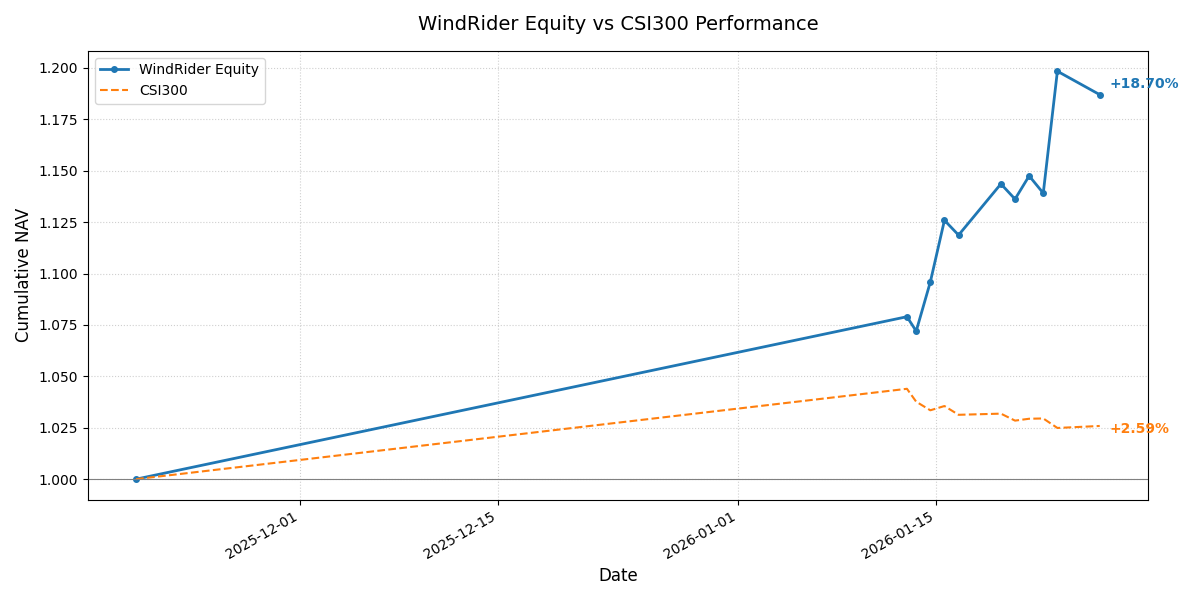
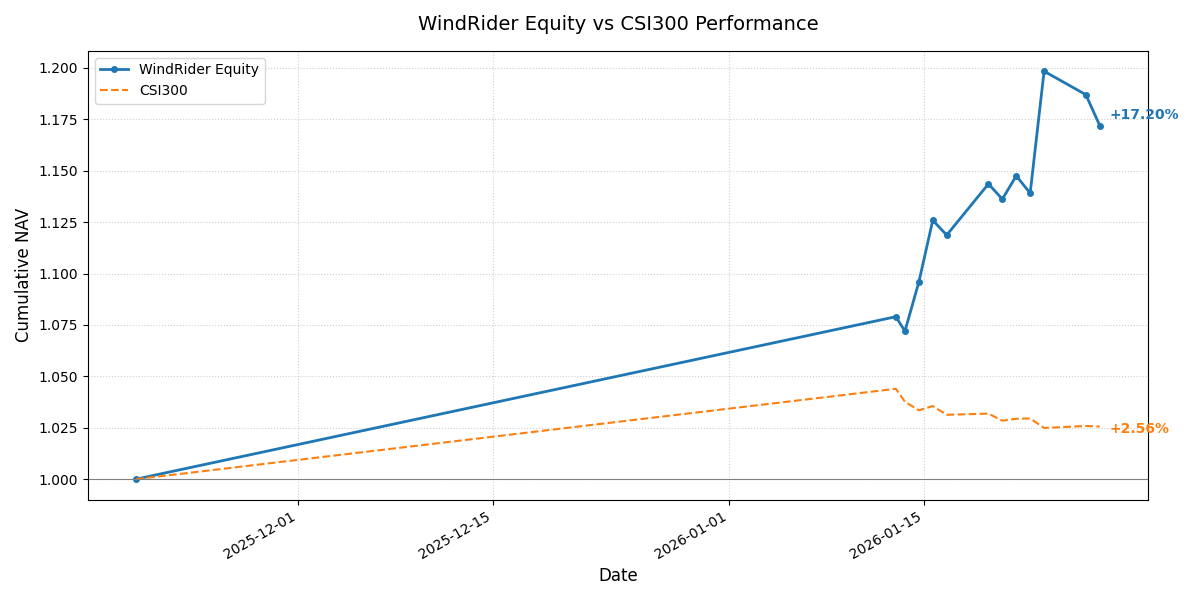
Updated Hugo site content

diff --git a/public/investment/position/index.html b/public/investment/position/index.html
@@ -66,8 +66,8 @@
   <meta property="og:locale" content="zh-cn">
   <meta property="og:type" content="article">
     <meta property="article:section" content="investment">
-    <meta property="article:published_time" content="2026-01-26T16:13:13+08:00">
-    <meta property="article:modified_time" content="2026-01-26T16:13:13+08:00">
+    <meta property="article:published_time" content="2026-01-27T15:47:00+08:00">
+    <meta property="article:modified_time" content="2026-01-27T15:47:00+08:00">
 <meta name="twitter:card" content="summary">
 <meta name="twitter:title" content="持仓 Position">
 <meta name="twitter:description" content="WindRider Stock Portfolio">
@@ -103,11 +103,11 @@
   "keywords": [
     
   ],
-  "articleBody": " 风舵股票组合 /// 每日持仓 WindRider Equity Portfolio 净值简报 (截至: 2026-01-26)\n指数代码： WDR.EQ 成立日期： 2025-11-19 最新净值： 1.1870 今日涨跌： -0.95% ===========================\n核心表现 累计收益： +18.70% 年化收益： +150.97% 最大回撤： -0.95% 基准点位： 4706.96 (CSI300) 策略状态： 已运行 69 天 持仓明细 股票名称 成本价 现价 盈亏 占比 先导智能 300450 49.41 61.89 +25.25% 51.5% 新 和 成 002001 24.77 28.00 +13.03% 46.6% 收益率对比曲线 声明：本页面数据为实盘记录，持仓数据每日收盘后更新。\n数据仅供技术交流，不构成投资建议。\n",
+  "articleBody": " 风舵股票组合 /// 每日持仓 WindRider Equity Portfolio 净值简报 (截至: 2026-01-27)\n指数代码： WDR.EQ 成立日期： 2025-11-19 最新净值： 1.1720 今日涨跌： -1.26% ===========================\n核心表现 累计收益： +17.20% 年化收益： +131.54% 最大回撤： -2.20% 基准点位： 4705.69 (CSI300) 策略状态： 已运行 70 天 持仓明细 股票名称 成本价 现价 盈亏 占比 先导智能 300450 49.41 61.17 +23.80% 51.55% 新 和 成 002001 24.77 27.60 +11.41% 46.52% 收益率对比曲线 声明：本页面数据为实盘记录，持仓数据每日收盘后更新。\n数据仅供技术交流，不构成投资建议。\n",
   "wordCount" : "55",
   "inLanguage": "zh-cn",
-  "datePublished": "2026-01-26T16:13:13+08:00",
-  "dateModified": "2026-01-26T16:13:13+08:00",
+  "datePublished": "2026-01-27T15:47:00+08:00",
+  "dateModified": "2026-01-27T15:47:00+08:00",
   "mainEntityOfPage": {
     "@type": "WebPage",
     "@id": "https://hankou.com/investment/position/"
@@ -191,7 +191,7 @@
     <div class="post-description">
       WindRider Stock Portfolio
     </div>
-    <div class="post-meta"><span title='2026-01-26 16:13:13 +0800 CST'>January 26, 2026</span>
+    <div class="post-meta"><span title='2026-01-27 15:47:00 +0800 CST'>January 27, 2026</span>
 
 </div>
   </header> 
@@ -200,7 +200,7 @@
 </style>
 <h3 id="风舵股票组合--每日持仓">风舵股票组合   <span style="color: #E63946; font-weight: bold;">/</span><span style="color: #F1A73E; font-weight: bold;">/</span><span style="color: #000091; font-weight: bold;">/</span>   每日持仓<a hidden class="anchor" aria-hidden="true" href="#风舵股票组合--每日持仓">#</a></h3>
 <p>WindRider Equity Portfolio <br>
-净值简报 <small>(截至: 2026-01-26)</small></p>
+净值简报 <small>(截至: 2026-01-27)</small></p>
 <table>
   <thead>
       <tr>
@@ -219,11 +219,11 @@
       </tr>
       <tr>
           <td style="text-align: left"><strong>最新净值：</strong></td>
-          <td style="text-align: left">1.1870</td>
+          <td style="text-align: left">1.1720</td>
       </tr>
       <tr>
           <td style="text-align: left"><strong>今日涨跌：</strong></td>
-          <td style="text-align: left">-0.95%</td>
+          <td style="text-align: left">-1.26%</td>
       </tr>
   </tbody>
 </table>
@@ -238,23 +238,23 @@
   <tbody>
       <tr>
           <td style="text-align: left"><strong>累计收益：</strong></td>
-          <td style="text-align: left">+18.70%</td>
+          <td style="text-align: left">+17.20%</td>
       </tr>
       <tr>
           <td style="text-align: left"><strong>年化收益：</strong></td>
-          <td style="text-align: left">+150.97%</td>
+          <td style="text-align: left">+131.54%</td>
       </tr>
       <tr>
           <td style="text-align: left"><strong>最大回撤：</strong></td>
-          <td style="text-align: left">-0.95%</td>
+          <td style="text-align: left">-2.20%</td>
       </tr>
       <tr>
           <td style="text-align: left"><strong>基准点位：</strong></td>
-          <td style="text-align: left">4706.96 (CSI300)</td>
+          <td style="text-align: left">4705.69 (CSI300)</td>
       </tr>
       <tr>
           <td style="text-align: left"><strong>策略状态：</strong></td>
-          <td style="text-align: left">已运行 69 天</td>
+          <td style="text-align: left">已运行 70 天</td>
       </tr>
   </tbody>
 </table>
@@ -274,17 +274,17 @@
       <tr>
           <td style="text-align: left">先导智能 <small>300450</small></td>
           <td style="text-align: left">49.41</td>
-          <td style="text-align: left">61.89</td>
-          <td style="text-align: left"><span style="color:#E63946">+25.25%</span></td>
-          <td style="text-align: left">51.5%</td>
+          <td style="text-align: left">61.17</td>
+          <td style="text-align: left"><span style="color:#E63946">+23.80%</span></td>
+          <td style="text-align: left">51.55%</td>
           <td></td>
       </tr>
       <tr>
           <td style="text-align: left">新 和 成 <small>002001</small></td>
           <td style="text-align: left">24.77</td>
-          <td style="text-align: left">28.00</td>
-          <td style="text-align: left"><span style="color:#E63946">+13.03%</span></td>
-          <td style="text-align: left">46.6%</td>
+          <td style="text-align: left">27.60</td>
+          <td style="text-align: left"><span style="color:#E63946">+11.41%</span></td>
+          <td style="text-align: left">46.52%</td>
           <td></td>
       </tr>
   </tbody>

diff --git a/public/investment/windrider-1/index.html b/public/investment/windrider-1/index.html
@@ -66,8 +66,8 @@
   <meta property="og:locale" content="zh-cn">
   <meta property="og:type" content="article">
     <meta property="article:section" content="investment">
-    <meta property="article:published_time" content="2026-01-26T15:15:03+08:00">
-    <meta property="article:modified_time" content="2026-01-26T15:15:03+08:00">
+    <meta property="article:published_time" content="2026-01-27T15:15:03+08:00">
+    <meta property="article:modified_time" content="2026-01-27T15:15:03+08:00">
 <meta name="twitter:card" content="summary">
 <meta name="twitter:title" content="风舵1号 (WindRider I)  /// 指数">
 <meta name="twitter:description" content="商品期货分形摆动策略实盘">
@@ -103,11 +103,11 @@
   "keywords": [
     
   ],
-  "articleBody": " 风舵1号 (WindRider I) /// 指数 商品期货分形摆动策略实盘\n净值简报 (截至: 2026-01-26)\n指数代码： WDR1.CTA 起步日期： 2026-01-06 最新净值： 0.8472 今日涨跌： -1.45% ===========================\n核心指标 累计涨跌： -15.28% 年化收益： -95.15% 最大回撤： -20.82% 卡玛比率： -4.57 策略状态： 已运行 21 天 净值曲线图 声明：本页面数据为实盘记录，持仓数据每日收盘后更新。\n数据仅供技术交流，不构成投资建议。\n",
+  "articleBody": " 风舵1号 (WindRider I) /// 指数 商品期货分形摆动策略实盘\n净值简报 (截至: 2026-01-27)\n指数代码： WDR1.CTA 起步日期： 2026-01-06 最新净值： 0.8301 今日涨跌： +11.01% ===========================\n核心指标 累计涨跌： -16.99% 年化收益： -96.07% 最大回撤： -30.11% 卡玛比率： -3.19 策略状态： 已运行 22 天 净值曲线图 声明：本页面数据为实盘记录，持仓数据每日收盘后更新。\n数据仅供技术交流，不构成投资建议。\n",
   "wordCount" : "34",
   "inLanguage": "zh-cn",
-  "datePublished": "2026-01-26T15:15:03+08:00",
-  "dateModified": "2026-01-26T15:15:03+08:00",
+  "datePublished": "2026-01-27T15:15:03+08:00",
+  "dateModified": "2026-01-27T15:15:03+08:00",
   "mainEntityOfPage": {
     "@type": "WebPage",
     "@id": "https://hankou.com/investment/windrider-1/"
@@ -191,7 +191,7 @@
     <div class="post-description">
       商品期货分形摆动策略实盘
     </div>
-    <div class="post-meta"><span title='2026-01-26 15:15:03 +0800 CST'>January 26, 2026</span>
+    <div class="post-meta"><span title='2026-01-27 15:15:03 +0800 CST'>January 27, 2026</span>
 
 </div>
   </header> 
@@ -203,7 +203,7 @@
 </style>
 <h3 id="风舵1号-windrider-i--指数">风舵1号 (WindRider I)   <span style="color: #E63946; font-weight: bold;">/</span><span style="color: #F1A73E; font-weight: bold;">/</span><span style="color: #000091; font-weight: bold;">/</span>   指数<a hidden class="anchor" aria-hidden="true" href="#风舵1号-windrider-i--指数">#</a></h3>
 <p>商品期货分形摆动策略实盘<br>
-净值简报 <small>(截至: 2026-01-26)</small></p>
+净值简报 <small>(截至: 2026-01-27)</small></p>
 <table>
   <thead>
       <tr>
@@ -222,11 +222,11 @@
       </tr>
       <tr>
           <td style="text-align: left"><strong>最新净值：</strong></td>
-          <td style="text-align: left">0.8472</td>
+          <td style="text-align: left">0.8301</td>
       </tr>
       <tr>
           <td style="text-align: left"><strong>今日涨跌：</strong></td>
-          <td style="text-align: left">-1.45%</td>
+          <td style="text-align: left">+11.01%</td>
       </tr>
   </tbody>
 </table>
@@ -241,23 +241,23 @@
   <tbody>
       <tr>
           <td style="text-align: left"><strong>累计涨跌：</strong></td>
-          <td style="text-align: left">-15.28%</td>
+          <td style="text-align: left">-16.99%</td>
       </tr>
       <tr>
           <td style="text-align: left"><strong>年化收益：</strong></td>
-          <td style="text-align: left">-95.15%</td>
+          <td style="text-align: left">-96.07%</td>
       </tr>
       <tr>
           <td style="text-align: left"><strong>最大回撤：</strong></td>
-          <td style="text-align: left">-20.82%</td>
+          <td style="text-align: left">-30.11%</td>
       </tr>
       <tr>
           <td style="text-align: left"><strong>卡玛比率：</strong></td>
-          <td style="text-align: left">-4.57</td>
+          <td style="text-align: left">-3.19</td>
       </tr>
       <tr>
           <td style="text-align: left"><strong>策略状态：</strong></td>
-          <td style="text-align: left">已运行 21 天</td>
+          <td style="text-align: left">已运行 22 天</td>
       </tr>
   </tbody>
 </table>

diff --git a/public/investment/index.html b/public/investment/index.html
@@ -152,7 +152,7 @@
   <div class="entry-content">
     <p>主动管理型股票组合。对标沪深300指数，采用基本面选股策略。</p>
   </div>
-  <footer class="entry-footer"><span title='2026-01-26 16:13:13 +0800 CST'>January 26, 2026</span></footer>
+  <footer class="entry-footer"><span title='2026-01-27 15:47:00 +0800 CST'>January 27, 2026</span></footer>
   <a class="entry-link" aria-label="post link to 持仓 Position" href="https://hankou.com/investment/position/"></a>
 </article>
 
@@ -164,7 +164,7 @@
   <div class="entry-content">
     <p>商品期货分形摆动策略，实盘最新净值与核心风险指标。</p>
   </div>
-  <footer class="entry-footer"><span title='2026-01-26 15:15:03 +0800 CST'>January 26, 2026</span></footer>
+  <footer class="entry-footer"><span title='2026-01-27 15:15:03 +0800 CST'>January 27, 2026</span></footer>
   <a class="entry-link" aria-label="post link to 风舵1号 (WindRider I)  /// 指数" href="https://hankou.com/investment/windrider-1/"></a>
 </article>
 

diff --git a/content/investment/windrider-1.md b/content/investment/windrider-1.md
@@ -1,8 +1,8 @@
 +++
 title = "风舵1号 (WindRider I)  /// 指数"
 summary = "商品期货分形摆动策略，实盘最新净值与核心风险指标。"
-date = 2026-01-27T15:15:03+08:00
-lastmod = 2026-01-27T15:15:03+08:00
+date = 2026-01-27T15:54:34+08:00
+lastmod = 2026-01-27T15:54:34+08:00
 draft = false
 description = "商品期货分形摆动策略实盘"
 +++
